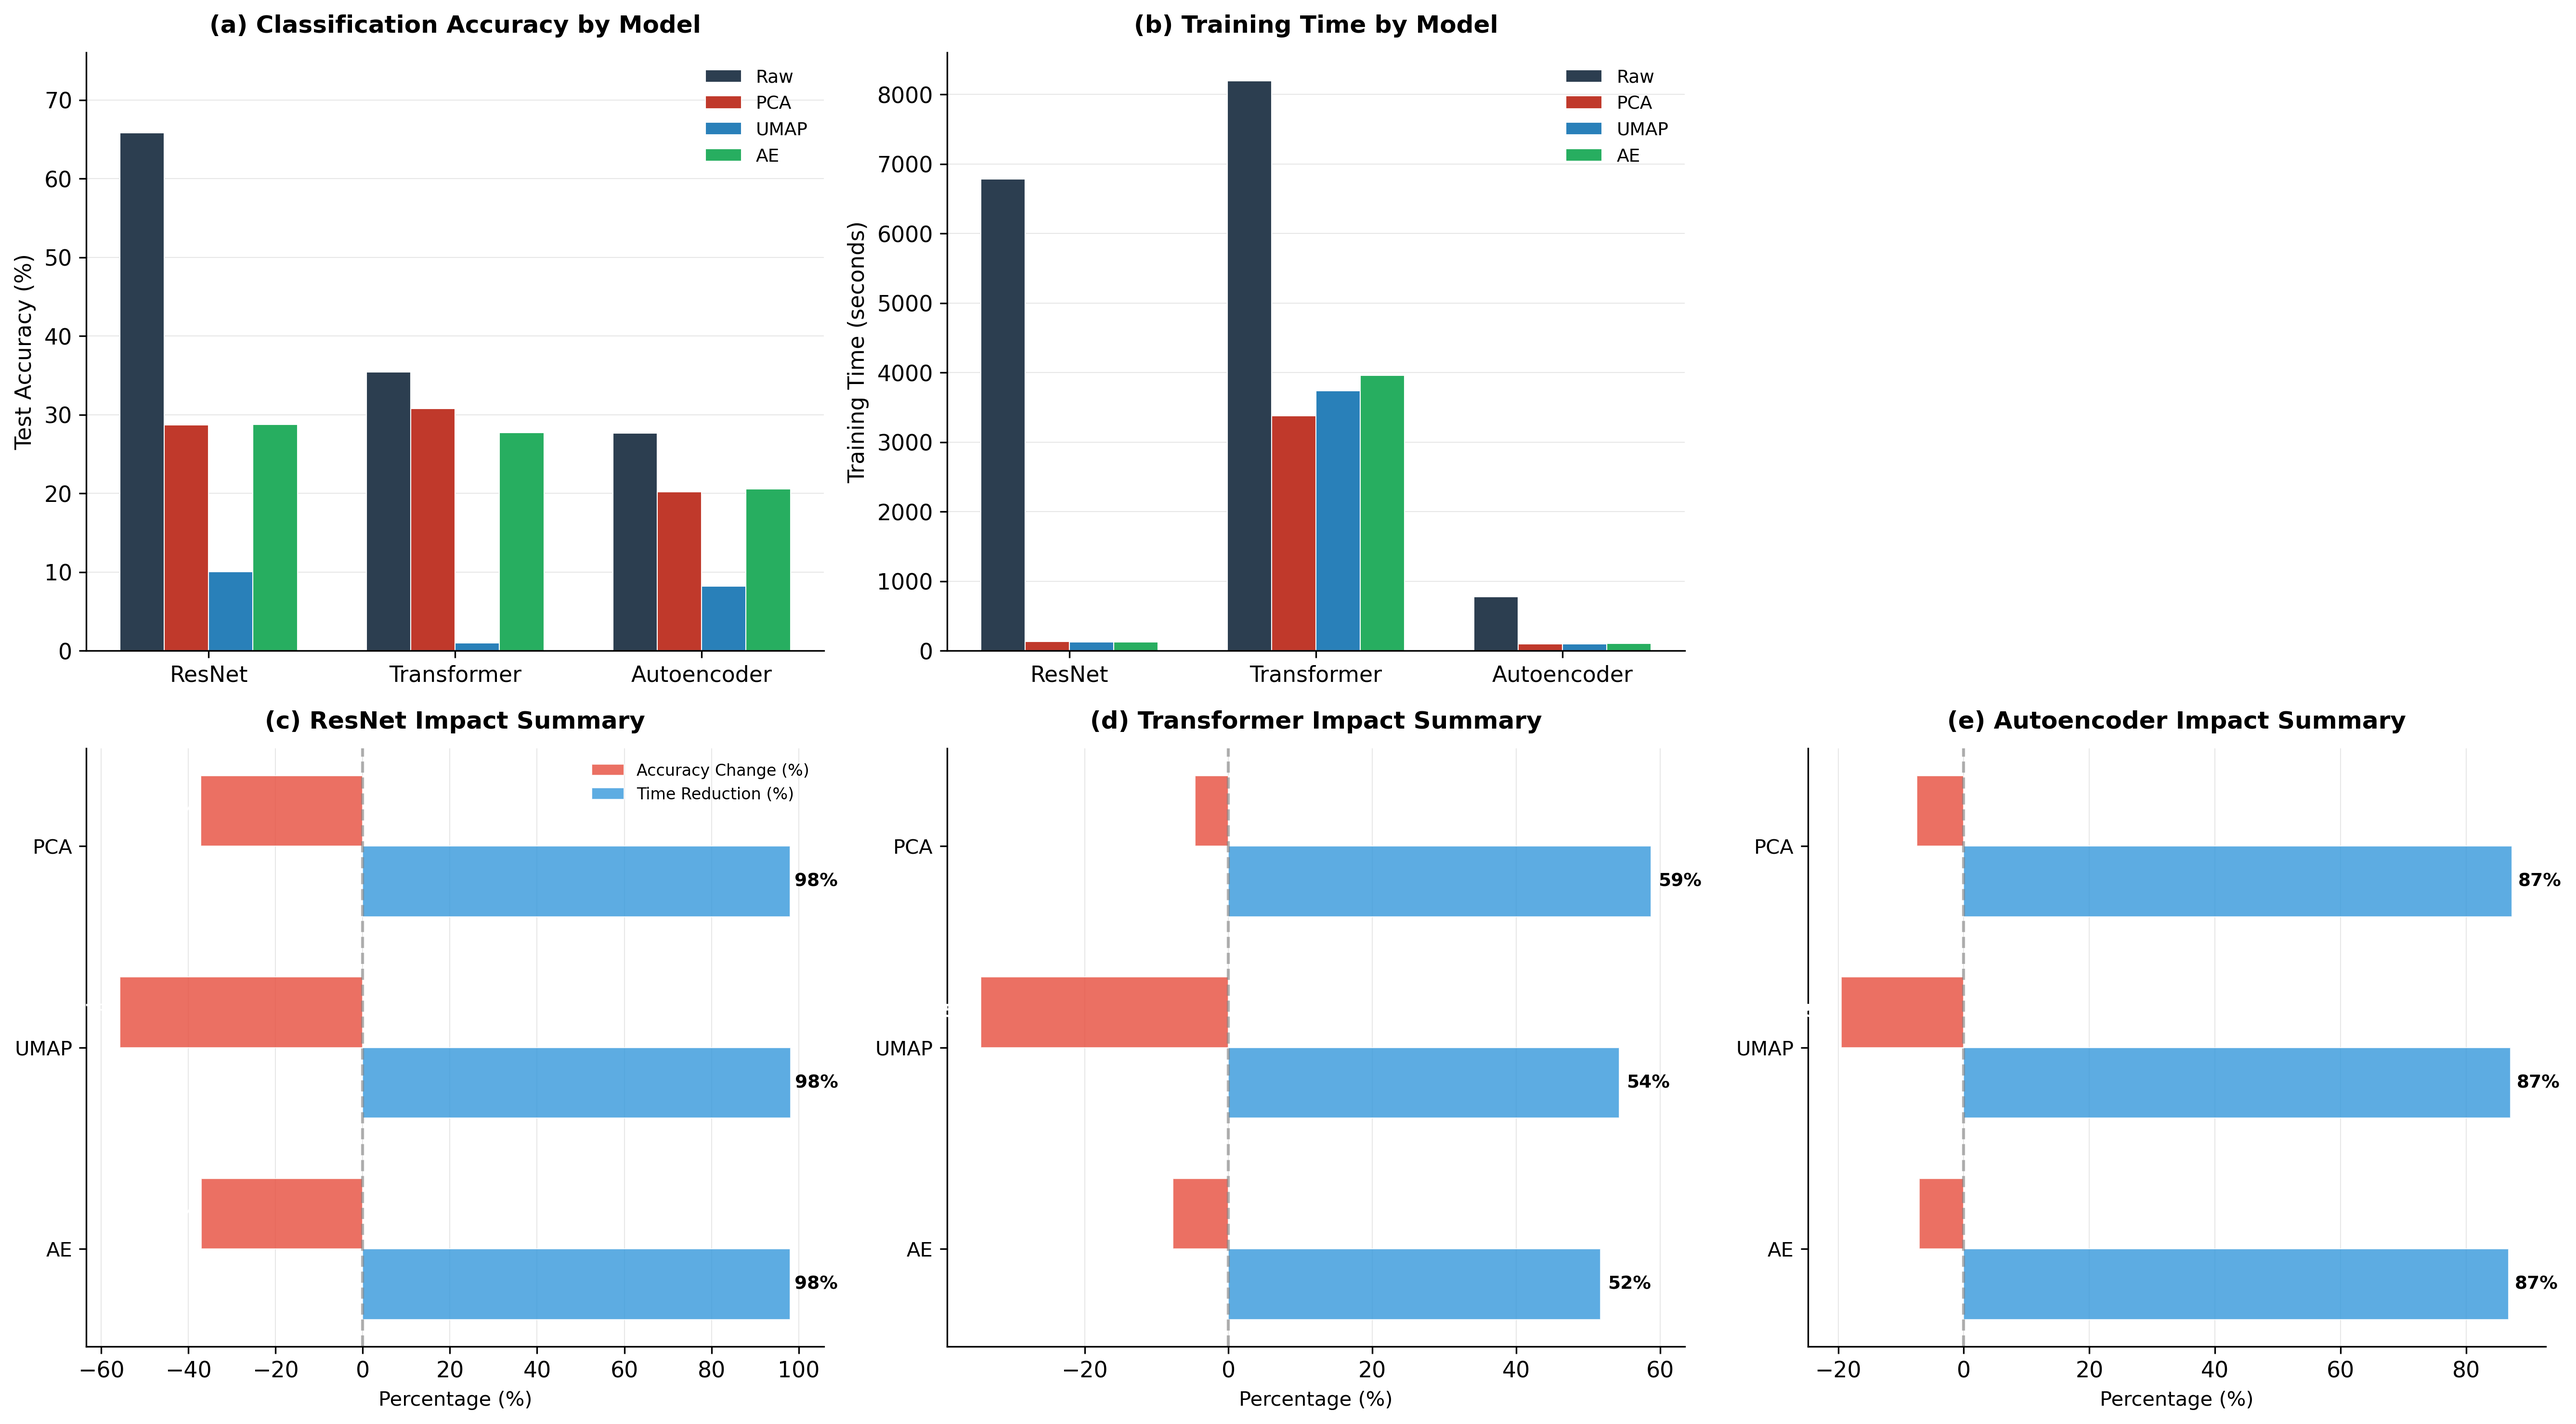
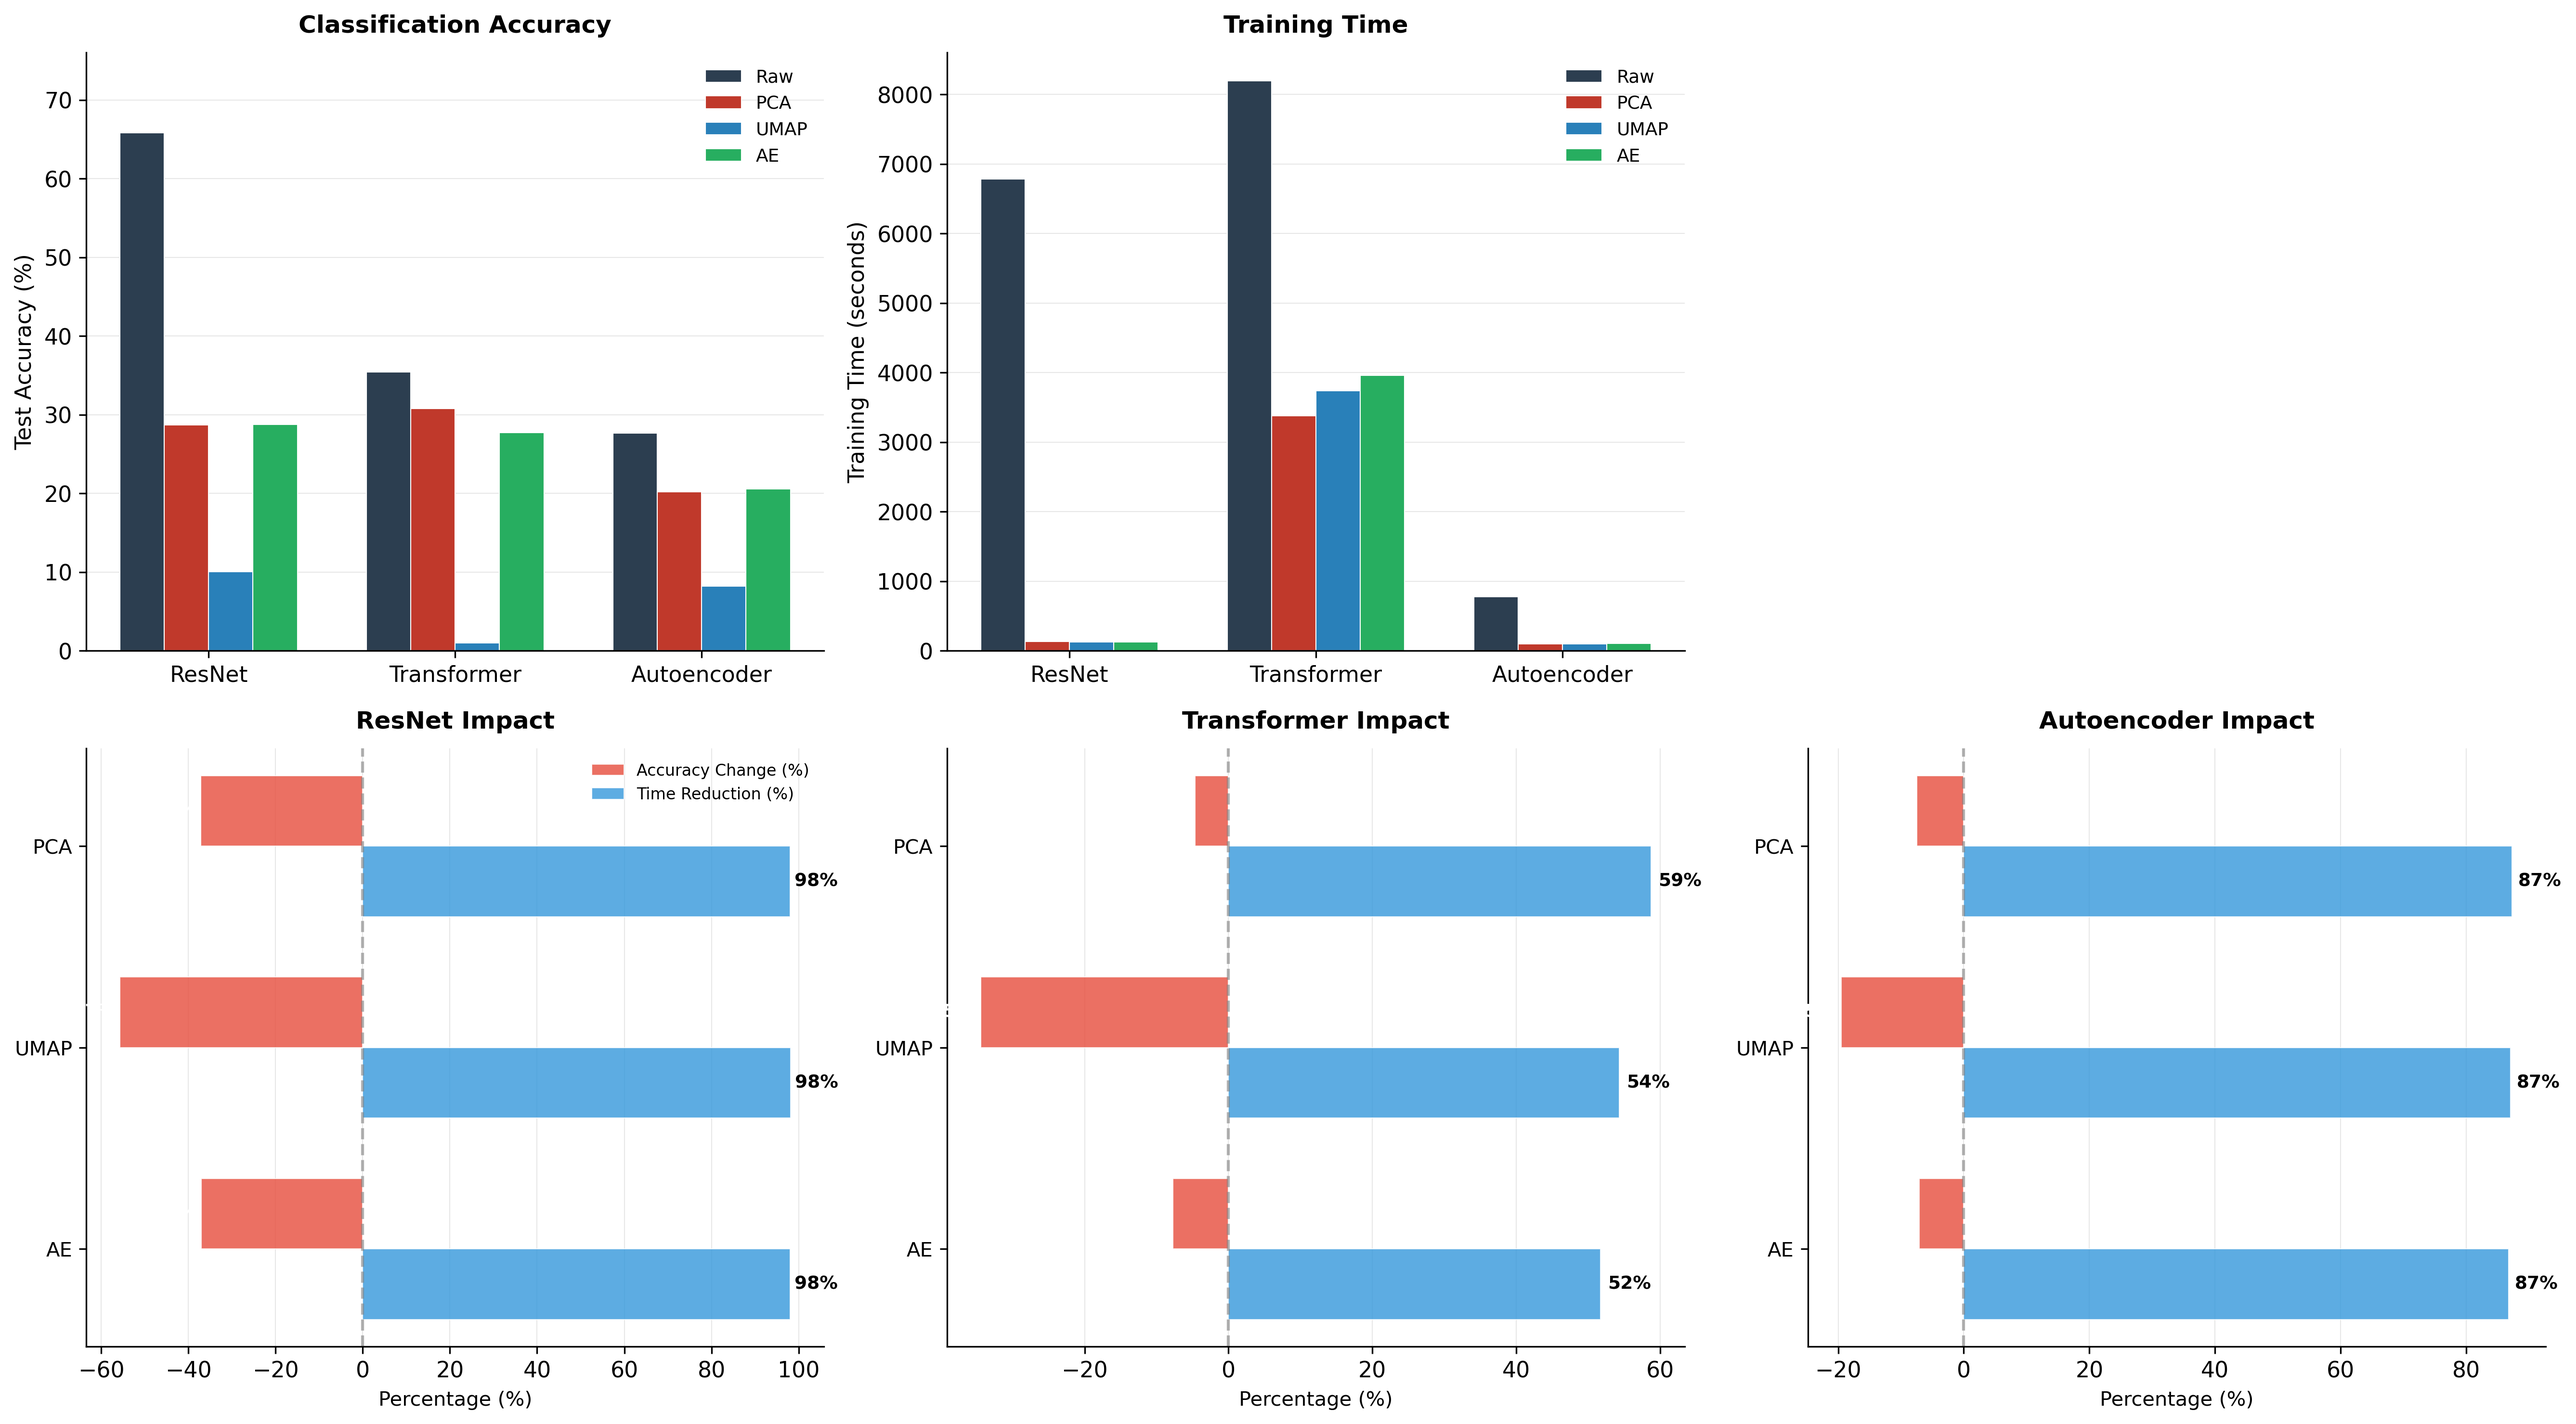
change plot labels

diff --git a/code/4_compare_results.py b/code/4_compare_results.py
@@ -128,7 +128,7 @@ def create_comparison_plots(all_results, save_path):
                        color=colors[i], edgecolor='white', linewidth=0.5)
     
     ax1.set_ylabel('Test Accuracy (%)', fontsize=11)
-    ax1.set_title('(a) Classification Accuracy by Model', fontsize=12, fontweight='bold', pad=10)
+    ax1.set_title('Classification Accuracy', fontsize=12, fontweight='bold', pad=10)
     ax1.set_xticks(x)
     ax1.set_xticklabels(models, fontsize=11)
     ax1.legend(loc='upper right', fontsize=9, frameon=False)
@@ -152,7 +152,7 @@ def create_comparison_plots(all_results, save_path):
                 color=colors[i], edgecolor='white', linewidth=0.5)
     
     ax2.set_ylabel('Training Time (seconds)', fontsize=11)
-    ax2.set_title('(b) Training Time by Model', fontsize=12, fontweight='bold', pad=10)
+    ax2.set_title('Training Time', fontsize=12, fontweight='bold', pad=10)
     ax2.set_xticks(x)
     ax2.set_xticklabels(models, fontsize=11)
     ax2.legend(loc='upper right', fontsize=9, frameon=False)
@@ -228,8 +228,7 @@ def create_comparison_plots(all_results, save_path):
         ax.set_yticklabels(method_labels, fontsize=10)
         ax.set_xlabel('Percentage (%)', fontsize=10)
         
-        plot_letter = chr(99 + plot_idx)  # c, d, e
-        ax.set_title(f'({plot_letter}) {model} Impact Summary', fontsize=12, fontweight='bold', pad=10)
+        ax.set_title(f'{model} Impact', fontsize=12, fontweight='bold', pad=10)
         
         if plot_idx == 0:  # Only show legend on first plot
             ax.legend(loc='upper right', fontsize=8, frameon=False)
